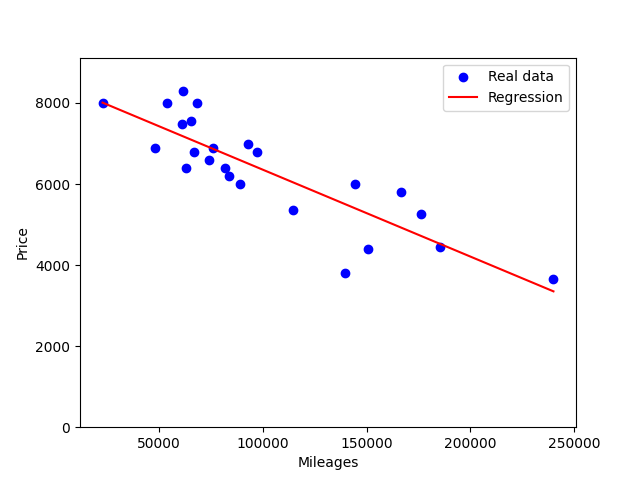
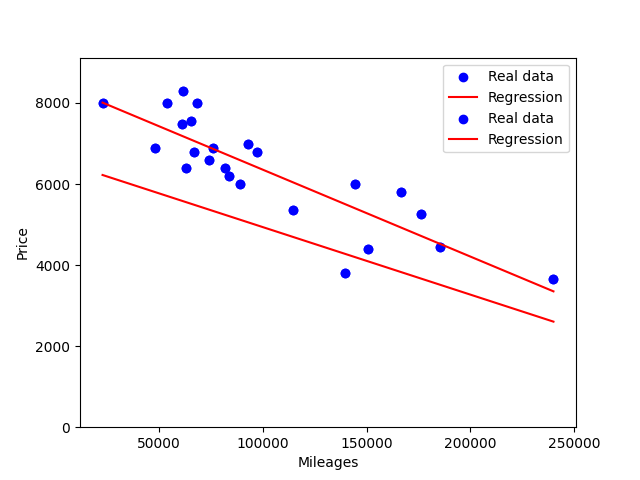
to home

diff --git a/linearRegression.py b/linearRegression.py
@@ -5,6 +5,7 @@ import numpy as np
 from utilsData import load_data, save_thetas, get_thetas, get_estimated_price
 from algorithmsRegression import train, mse, r_square
 import matplotlib.pyplot as plt
+from colorama import Fore, Style
 
 def standarize_data(mileages):
 	mean = sum(mileages) / len(mileages)
@@ -19,8 +20,8 @@ def standarize_data(mileages):
 		standardized_mileages = [(x - mean) / std_dev for x in mileages]
 	else:
 		standardized_mileages = [0.0 for _ in mileages]
-	print(f"Media: {mean}")
-	print(f"Desviación estándar: {std_dev}")
+	# print(f"Media: {mean}")
+	# print(f"Desviación estándar: {std_dev}")
 	#print(f"Mileages estandarizados:\n{standardized_mileages}")
 	return standardized_mileages, mean, std_dev
 
@@ -35,7 +36,6 @@ def get_mileage():
 			if mileage < 0:
 				print("\nError: Mileage cannot be negative. Please enter a positive value.")
 			else:
-
 				return mileage
 		except ValueError:
 			print("Error: Please enter a valid numeric value.")
@@ -57,12 +57,20 @@ def draw(mileages, prices, theta0, theta1, mean, std_dev):
 	plt.savefig("plot.png")
 
 def train_model(standardized_mileages, mileages, prices, mean, std_dev):
-	theta0, theta1 = train(standardized_mileages, prices, mean, std_dev, learning_rate=0.01, iterations=1500)
+	theta0, theta1 = train(standardized_mileages, prices, learning_rate=0.01, iterations=1500)
 	#print({"theta0": theta0, "theta1": theta1})
 	if not (theta0 == float('nan') or theta1 == float('nan')):
 		save_thetas(theta0, theta1)
-		print(f'Mean Square Error: {mse(prices, standardized_mileages):.2f}')
-		print(f'coefficient of determination R²: {r_square(prices, mileages, std_dev, mean):.2f}')
+		print("Model trained and thetas saved.")
+		draw(mileages, prices, theta0, theta1, mean, std_dev)
+	else:
+		print("Error: Training failed due to invalid data.")
+
+def train_model_2(standardized_mileages, mileages, prices, mean, std_dev):
+	theta0, theta1 = train(standardized_mileages, prices, learning_rate=0.001, iterations=1500)
+	#print({"theta0": theta0, "theta1": theta1})
+	if not (theta0 == float('nan') or theta1 == float('nan')):
+		save_thetas(theta0, theta1)
 		print("Model trained and thetas saved.")
 		draw(mileages, prices, theta0, theta1, mean, std_dev)
 	else:
@@ -75,19 +83,20 @@ def estimate_price(theta0, theta1, mean, std_dev):
     print(f'Estimated price: {price}')
     
 def menu():
-	print("Write 1 to train the model")
-	print("Write 2 to get an estimated price")
-	print("Write 3 to exit")
+	print(Fore.GREEN + "Write 1 to train the model" + Style.RESET_ALL)
+	print(Fore.GREEN + "Write 2 to get an estimated price" + Style.RESET_ALL)
+	print(Fore.GREEN + "Write 3 to see MeanSquareError (MSE)" + Style.RESET_ALL)
+	print(Fore.GREEN + "Write 4 to see the Coefficient of determination (R²)" + Style.RESET_ALL)
+	print(Fore.RED + "Write 5 to exit" + Style.RESET_ALL)
 	while True:
 		try:
-			option = int(input("Enter your choice: "))
-			if option in [1, 2, 3]:
+			option = int(input(Fore.BLUE + "Enter your choice: " + Style.RESET_ALL))
+			if option in [1, 2, 3, 4, 5, 6]:
 				return option
 			else:
-				print("Invalid option. Please enter 1, 2, or 3.")
+				print(Fore.RED + "Invalid option. Please enter 1, 2, 3, 4 or 5." + Style.RESET_ALL)
 		except ValueError:
-			print("Error: Please enter a valid numeric option.")
-
+			print(Fore.RED + "Error: Please enter a valid numeric option." + Style.RESET_ALL)
 
 def main():
 	theta0, theta1 = get_thetas()
@@ -100,7 +109,14 @@ def main():
 		elif option == 2:
 			estimate_price(theta0, theta1, mean, std_dev)
 		elif option == 3:
+			print(f'Mean Square Error: {mse(prices, standardized_mileages):.2f}')
+		elif option == 4:
+			print(f'coefficient of determination R²: {r_square(prices, mileages, std_dev, mean):.2f}')
+		elif option == 5:
 			break
+		elif option == 6:
+			train_model_2(standardized_mileages, mileages, prices, mean, std_dev)
+
 
 if __name__ == "__main__":
 	main()

diff --git a/algorithmsRegression.py b/algorithmsRegression.py
@@ -28,7 +28,7 @@ def mse(price, mileage):
 	sum_square_errors = sum((price[i] - predictions[i]) ** 2 for i in range(len(price)))
 	return sum_square_errors / n
 
-def train(mileage, price, mean, std_dev, learning_rate=0.01, iterations=1500):
+def train(mileage, price, learning_rate=0.01, iterations=1500):
 	theta0 = 0
 	theta1 = 0
 	m = len(mileage)
